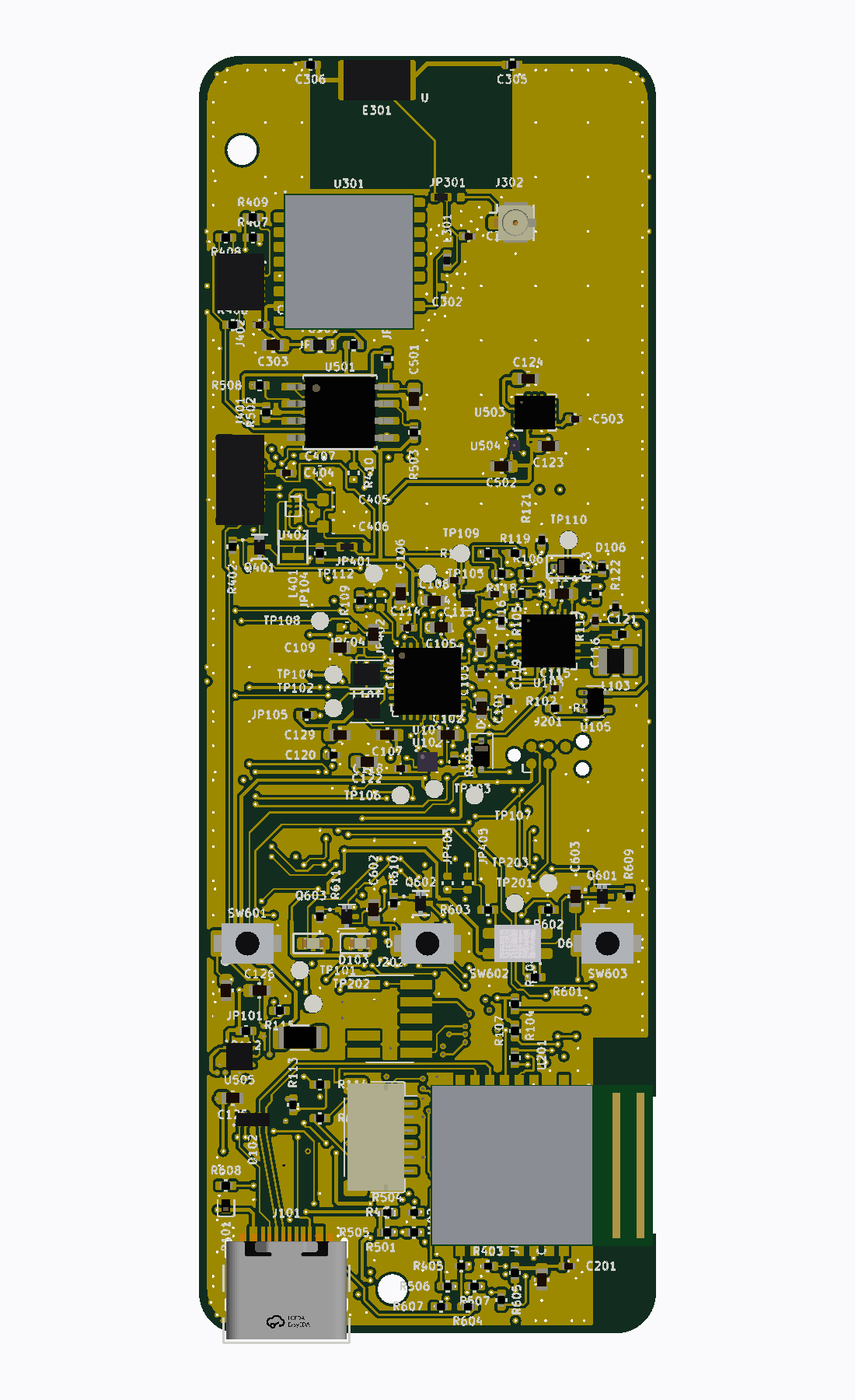
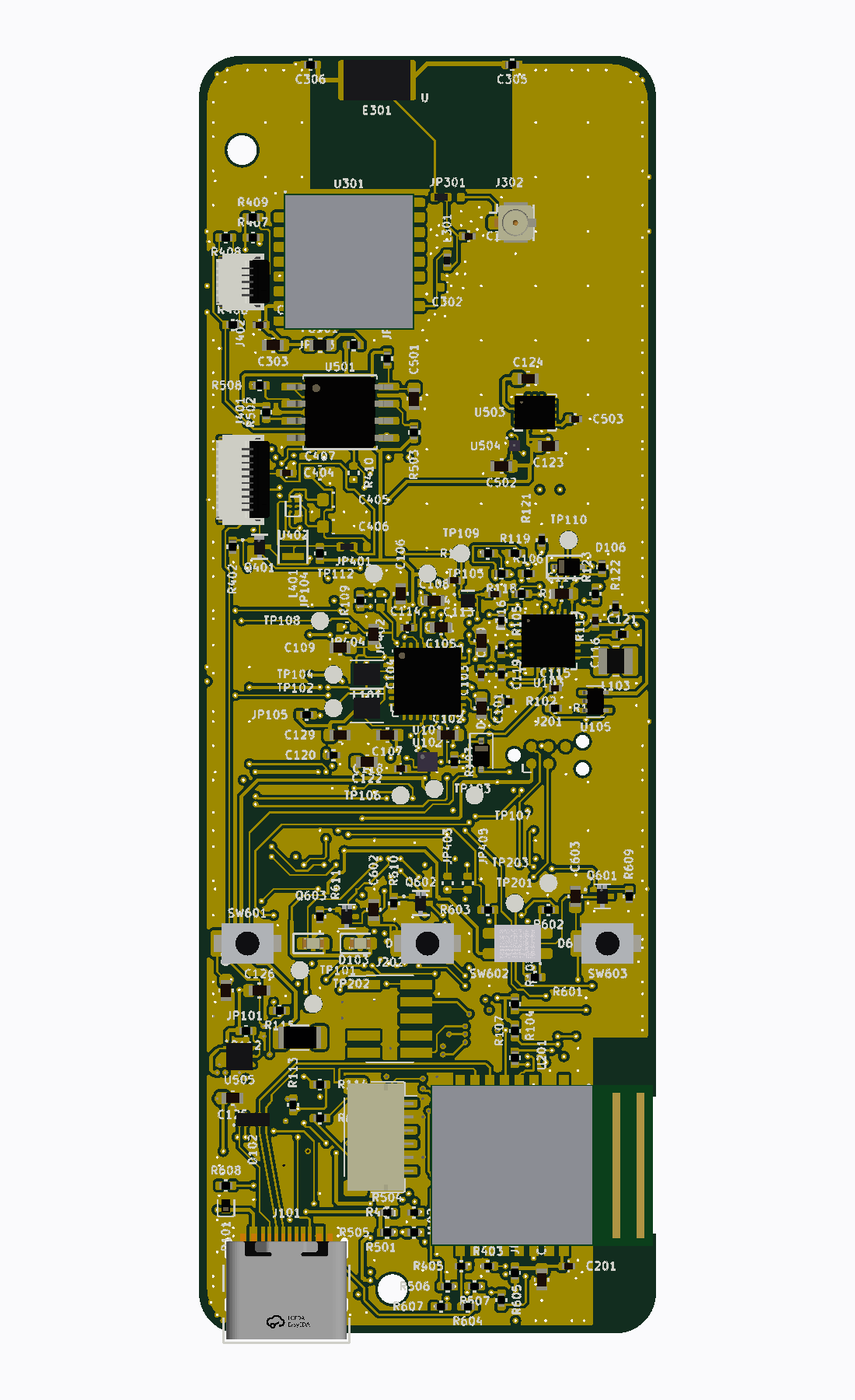
feat(hardware): Molex's own 3D models on the display connectors
J401, J402 and J403 were boxes drawn here. The owner fetched Molex's STEPs
of the 503480-1000, -0540 and -0440 (through TraceParts); they stay in
cad/3d/real/, out of git like every maker model, and reach the routed
board through aplicar_modelos.py.

Molex draws them Y up with the origin at circuit 1, so as they came the
connectors stood on their sides. The turn and the offset were measured on
a board holding the part alone: the nails and the contact feet told apart
by colour and set against their pads, and two test moves to see where the
offset takes the body. On the front it is -90 about X and 180 about Z; on
the back J403 takes -90 about X alone and the offset runs another way. The
feet sit centred on the signal pads and the nails on theirs within 0.02
mm, and the housing on the F.Fab. MODELO_GIRADO now takes a turn about all
three axes.

ME5 measures the feet of J401 and J402 again, and those of J403: the dry
run meets 35 measures, with the same 2 accepted deviations and none
violated, and the board check passes as it is.

Changed region(s): [[0.2473, 0.3111, 0.34, 0.3733], [0.2473, 0.1556, 0.34, 0.2489]]

diff --git a/hardware_gnssbike/cad/footprints.py b/hardware_gnssbike/cad/footprints.py
@@ -943,6 +943,21 @@ MODELO_GIRADO = {
     # right, over the pads. On the front at 270 degrees the offset maps
     # x -> +y and y -> +x, measured with test exports; none is needed.
     "HC-FPC-05-10-5RLTAG": (180, 0.0, 0.0),
+    # Molex's own STEPs of the Easy-On 503480 (via TraceParts, fetched by the
+    # owner on 2026-10-21) are drawn Y up with the origin at circuit 1: as
+    # they come, the connector stood on its side, 4 mm tall and 1 mm thick.
+    # An entry of six numbers turns about X, Y and Z and offsets in X, Y and
+    # Z. Measured on the exported GLB of a board holding the part alone: -90
+    # about X lays it on the board (body z 0.85..1.87, 1.02 mm tall), and
+    # then the fitting nails and the contact feet sit on the wrong sides
+    # until a 180 about Z puts the nails on their pads at the mouth and the
+    # feet on the signal row. The offsets, from two test moves (model x
+    # moves the body to -y on the board, model y to -x): J401's feet centred
+    # on the signal pads (29.57) and its nails on theirs (26.94 against
+    # 26.92), the housing on the F.Fab front face and its full length; the
+    # model runs 0.4 mm past the F.Fab at the back, where the feet are.
+    "Molex_503480-1000_1x10_P0.50mm": (-90, 0, 180, 2.25, 0.22, 0),
+    "Molex_503480-0540_1x05_P0.50mm": (-90, 0, 180, 1.0, 0.22, 0),
 }
 
 # The same model on the BACK face needs another turn AND another offset, and
@@ -963,7 +978,24 @@ MODELO_GIRADO = {
 # model of this table on the other face measures it again the same way.
 MODELO_GIRADO_VERSO = {
     "JST_ZH_S4B-ZR-SM4A-TF_1x04-1MP_P1.50mm_Horizontal": (180, -2.25, 1.86),
+    # J403, the Azumo light's 503480-0440 on the back (2026-10-21): on this
+    # face the 180 about Z of the front puts the nails and the feet on the
+    # wrong sides again, so it is -90 about X alone, and the test moves give
+    # model x to -y and model y to +x on the board. Measured: the body on
+    # the F.Fab (x 40.27, y 81.33..85.03) and 1.02 mm under the board, the
+    # feet centred on the signal pads (43.57), the nails on theirs (40.94
+    # against 40.92)
+    "Molex_503480-0440_1x04_P0.50mm": (-90, 0, 0, -0.75, -0.22, 0),
 }
+
+
+def _giro_desloca(v: tuple) -> tuple[tuple, tuple]:
+    """A MODELO_GIRADO entry as (rotate xyz, offset xyz): three numbers turn
+    about Z alone and offset in X and Y, six turn about X, Y and Z and
+    offset in X, Y and Z."""
+    if len(v) == 3:
+        return (0, 0, v[0]), (v[1], v[2], 0)
+    return tuple(v[:3]), tuple(v[3:])
 
 
 def modelo_no_verso(corpo: str) -> str:
@@ -977,21 +1009,21 @@ def modelo_no_verso(corpo: str) -> str:
     base = m.group(1).rsplit("/", 1)[-1].rsplit(".", 1)[0]
     if base not in MODELO_GIRADO_VERSO:
         return corpo
-    giro, ox, oy = MODELO_GIRADO_VERSO[base]
+    giro, desloca = _giro_desloca(MODELO_GIRADO_VERSO[base])
     inicio = m.start()
     trecho = corpo[inicio:]
-    trecho = _re.sub(r"\(offset\s*\(xyz [^)]*\)\s*\)", "(offset (xyz %g %g 0))" % (ox, oy), trecho, count=1)
-    trecho = _re.sub(r"\(rotate\s*\(xyz [^)]*\)\s*\)", "(rotate (xyz 0 0 %d))" % giro, trecho, count=1)
+    trecho = _re.sub(r"\(offset\s*\(xyz [^)]*\)\s*\)", "(offset (xyz %g %g %g))" % desloca, trecho, count=1)
+    trecho = _re.sub(r"\(rotate\s*\(xyz [^)]*\)\s*\)", "(rotate (xyz %g %g %g))" % giro, trecho, count=1)
     return corpo[:inicio] + trecho
 
 
 def linha_de_modelo(rel: str) -> str:
     base = rel.rsplit("/", 1)[-1].rsplit(".", 1)[0]
-    giro, ox, oy = MODELO_GIRADO.get(base, (0, 0.0, 0.0))
+    giro, desloca = _giro_desloca(MODELO_GIRADO.get(base, (0, 0.0, 0.0)))
     return (TAB + '(model "${KIPRJMOD}/' + rel + '"' + NL +
-            TAB * 2 + "(offset (xyz %g %g 0))" % (ox, oy) + NL +
+            TAB * 2 + "(offset (xyz %g %g %g))" % desloca + NL +
             TAB * 2 + "(scale (xyz 1 1 1))" + NL +
-            TAB * 2 + "(rotate (xyz 0 0 %d))" % giro + NL +
+            TAB * 2 + "(rotate (xyz %g %g %g))" % giro + NL +
             TAB + ")" + NL)
 
 

diff --git a/hardware_gnssbike/cad/dry_run_pcb.py b/hardware_gnssbike/cad/dry_run_pcb.py
@@ -695,8 +695,9 @@ def _ilhas_sob_o_corpo(ref: str, pecas: dict):
 
 # Os conectores cujos rabichos de solda a ME5 confere: os que tem modelo do
 # fabricante ou da biblioteca do KiCad no GLB e ilhas de sinal numa fileira.
-# J401 and J402 left on 2026-10-18 for the same reason (Molex 503480, boxes)
-RABICHOS_CONFERIDOS = ("J101", "J102", "J103")
+# J401 and J402 left on 2026-10-18, when the Molex 503480 was a box, and
+# came back with J403 on 2026-10-21, with Molex's own STEPs
+RABICHOS_CONFERIDOS = ("J101", "J102", "J103", "J401", "J402", "J403")
 
 # Models whose solder contacts have a colour of their own in the maker's
 # STEP, so that the contacts can be told from the nails' plate. Measured in

diff --git a/hardware_gnssbike/cad/aplicar_modelos.py b/hardware_gnssbike/cad/aplicar_modelos.py
@@ -123,7 +123,8 @@ def main() -> int:
             de = agora[0].rsplit("/", 1)[-1] if agora else "sem corpo"
             para = alvo[0].rsplit("/", 1)[-1] if alvo else "sem corpo"
             resumo.append(f"  {ref}: {de} -> {para}"
-                          + (f" (giro {alvo[3][2]:g}, desloca {alvo[1][0]:g}; {alvo[1][1]:g})" if alvo else ""))
+                          + (f" (giro {' '.join(f'{v:g}' for v in alvo[3])},"
+                             f" desloca {' '.join(f'{v:g}' for v in alvo[1])})" if alvo else ""))
         i = fim
     for a, b, novo in sorted(trocas, reverse=True):
         texto = texto[:a] + novo + texto[b:]

diff --git a/.claude/contexto/estado.md b/.claude/contexto/estado.md
@@ -19,6 +19,7 @@ Registro que saiu do [`CLAUDE.md`](../../CLAUDE.md) em 2026-10-16 (era a seção
 - **Feito em 2026-10-18: revisão do esquemático da placa nova antes da fábrica** (pedido do dono; no fim do dia ele reduziu o escopo a duas perguntas: o esquemático está certo para fabricar? alguma peça está em fim de vida?). Relatório em [`hardware_gnssbike/11-revisao-do-esquematico.md`](../../hardware_gnssbike/11-revisao-do-esquematico.md). Resultado: **não vai para a fábrica sem correções**. São 6 bloqueios (footprints do BMP585 e do LED RGB, pinagem do TLV7031, `JP301` que nunca liga a antena de chip, `J401` e `J402` com o lado de contato e a posição errados), a tela JDI LPM027M128C fora de venda, o buzzer Murata em *Last Time Buy* (substituto no mesmo land: Same Sky CPT-12123-81-SMT-TR) e 15 graves. O mapa de pads do ME54BS13 está certo (fecha `docs-k1`), e também a árvore de energia, os pinos do nRF54LM20A, o GNSS e a gravação pela SWD. O dono aprovou a lista e as decisões D1 a D4 no mesmo dia, e pediu os conectores das duas telas na placa. O material de trabalho (cartões, vereditos, o registro com 210 achados e a tabela de fornecimento com os códigos da LCSC propostos para os passivos) fica em `.claude/reviews/2026-10-18-esquematico/`, fora do git; `python -I tools/review/finding.py <pasta> <id>` imprime um achado. A etapa 1 passou de 100 agentes (daí a regra dos 15) e o fechamento gastou 15, contando 6 de rodadas paradas.
 - **Feito em 2026-10-18 e 2026-10-19 (hardware, nada fabricado):** as correções da revisão no gerador (commits do firmware `8516aa0` e `d284af7`, e o do hardware); a placa aceita a JDI ou a Sharp no mesmo `J401` (Molex 503480 de contato dos dois lados, com a fita entrando pelo lado dos pregos, achado da segunda conferência cega), o boost de 5 V só com `TELA=sharp`; códigos da LCSC em toda peça montada; a caixa revista parte por parte em [`hardware_gnssbike/12`](../../hardware_gnssbike/12-revisao-da-caixa.md) (64 × 106 × 18,2, bolsos dos módulos pela ficha, teclas com 0,15 de folga, janela do sensor vedada; **três decisões do dono**: USB-C, furos do fundo e junta da partição). O roteador ganhou saída de terra dobrada e conferida na geometria, vias de terra para fora dos CIs densos, o keep-out da antena aceitando a rede dela e a ordem com os trilhos primeiro; o arquivo deixou de repetir UUIDs (o DRC culpava as peças erradas). **Roteamento fechado na noite de 2026-10-19:** DRC completo com 0 desconectados, 0 erros e nenhuma trilha ou via solta (de manhã eram 48 desconectados). Pedido do dono no meio do caminho: começar da melhor placa roteada e fechar uma trilha de cada vez, mudando a regra até 100 %, sem rotear tudo de novo. O `route.py` faz a base (redes curtas e *rip-up* com trocas de lado: 26 → 11 falhas) e o `acabar.py`, novo, fecha o resto; três ligações com guia e quatro trechos à mão (I²C do MAX17262, `VSYS` e `VBUS` do lado direito do nPM1300) estão no próprio `acabar.py`, presos às coordenadas desta placa. Mudaram com o roteamento: o `ALRT` do MAX17262 ao GND (sai o `R110`), o par USB trocado de canal no `D102`, o `C305` e o `C306` na borda com os valores da figura 8-1, as larguras pela corrente (IPC-2221), as 9 vias térmicas do nPM1300, o corredor de sinais na borda esquerda, o ADP5091 afastado e o `RT101` atrás do `U103`. O dry run cumpre 24 regras e viola as 2 de antes (`RF9` e `AL1`). Commits `daebe2f` (esquemático) e `ffb5d7a` (roteamento), com push e merge na `main` (`308ea47`). Depois, a revisão dos quatro pontos de layout, autorizada pelo dono: o `USB_DM` dava a volta pela borda (67,6 contra 32,4 mm) e foi refeito colado ao `USB_DP` (20,69 mm cada, 93,6 Ω); a pilha é a JLCPCB JLC04081H-3313, com impedância controlada, e as linhas de RF passaram de 0,196 mm (44 Ω) a 0,15 mm (51,1 Ω, `impedancia.py`); a `FB301` virou BLM18KG221SN1D (AL4 em 169 mΩ); a janela de máscara do u.FL ganhou área proibida de cobre; 94 vias ficam em ilha de SMD (regra `FA1`) e o pedido pede POFV; o dry run mede as 32 regras, sem violação, com desvios aceitos na `RF9` (tela e fita da luz) e no `C210`, a fechar na bancada. Commits `ea41bbc` e `ca09869`. Os arquivos para cotar na JLCPCB saem do `make_fab.py` (Gerber, furação, BOM e CPL por tela, em `hardware_gnssbike/fabricacao/`, fora do git); nada foi pedido. A compra na Mouser sai do `mouser.py` (chave da API do dono em `.claude/local/mouser_api_key`): US$ 135 na Mouser para duas placas JDI (o projeto "GNSS BIKE" que o dono montou lá, com mais sobra, soma US$ 202), e planilhas `.xlsx` para a LCSC (dez linhas: o que a Mouser não vende ou não tem em estoque) e para a DigiKey (a MX25R6435F, o `U201` e as células solares). O ADP5091ACPZ-2-R7 e o MAX17262REWL+T ficam na Mouser por decisão do dono em 2026-10-20, embora a ferramenta de BOM dela os tenha marcado como obsoletos; a ADI os dá em produção e a DigiKey como ativos. Os substitutos da Mouser para o LED, as teclas, a flash e o 18 MΩ assentam nas ilhas mas mudam alguma coisa (firmware, força da tecla, consumo, valor do MPPT), e o dono ficou com as peças do projeto em 2026-10-19 ([19](../../docs/19-lista-de-compras.md#substitutos-que-a-mouser-tem-e-que-mudam-alguma-coisa)).
 - **Feito em 2026-10-20 (documentação, nada fabricado):** o 3D da placa e as vistas da caixa mostram a montagem da JDI, sem as peças que ela não leva (o conector SWD `J202` aparecia de pé); o manual de montagem e o chicote solar passaram a ler a caixa (`make_caixa.Caixa`) e a placa em vez de números digitados, e saíram da caixa de 62 × 106 × 17, dos conectores de 2026-09-26 e do colhedor antigo; o README mostra a placa roteada de frente, verso e ângulo, com os dois conectores da tela na borda esquerda (`J402`, luz da JDI, e `J401`, sinal das duas), e os números da placa de hoje (2.683 segmentos e 769 vias depois do casamento do par USB).
+- **Feito em 2026-10-21 (3D da placa, nada fabricado):** o `aplicar_modelos.py` troca o modelo 3D na placa roteada sem gerar a placa de novo; os indutores dos conversores e o `U402`, que estavam sem corpo, ganharam caixa; os três Molex da tela (`J401`, `J402`, `J403`) têm o STEP da Molex que o dono baixou, com giro e deslocamento medidos (`footprints.MODELO_GIRADO`, agora com giro nos três eixos). O dry run conta 35 medidas cumpridas, 2 desvios aceitos, nenhuma violada. Ainda são caixa 21 peças; as que mais destoam (teclas, LED RGB, SOT-523, buzzer) estão em `hardware_gnssbike/cad/3d/LEIAME.md`, com de onde baixar. O dono comprou a tela JDI (a C, com as duas fitas).
 - **Em aberto da fase 6:** o teste com cabo (o `$QRY` foi respondido em 2026-09-23).
 - **Ordem proposta do que falta:**
 

diff --git a/CLAUDE.md b/CLAUDE.md
@@ -72,7 +72,7 @@ O dono do projeto é um desenvolvedor brasileiro de eletrônica embarcada que qu
 Estado registrado até 2026-10-20. O registro completo, as decisões com data e a ordem do que falta estão em [`.claude/contexto/estado.md`](.claude/contexto/estado.md): atualize lá quando o estado mudar, e aqui quando o resumo mudar.
 
 - **Port:** compila no NCS v3.3.0 e passa nos testes de host; **nunca rodou em placa nem no DK**. Matriz em [`docs/10-status-do-port.md`](docs/10-status-do-port.md).
-- **Placa nova:** nRF54LM20A, gerada no KiCad pelos scripts de `hardware_gnssbike/cad/`, com dry run da placa e da caixa; **nada fabricado, montado nem impresso**. A revisão do esquemático de 2026-10-18 ([11](hardware_gnssbike/11-revisao-do-esquematico.md)) achou 6 bloqueios, a tela e o buzzer fora de venda ou em fim de vida e 15 graves; as correções entraram no gerador em 2026-10-18 e 2026-10-19, a placa aceita a JDI ou a Sharp, e a caixa foi revista parte por parte ([12](hardware_gnssbike/12-revisao-da-caixa.md)). O roteamento fechou em 2026-10-19 (DRC com 0 desconectados e 0 erros: o `route.py` faz a base e o `acabar.py` fecha uma ligação de cada vez, com o cobre à mão preso a esta placa), e os capacitores de sintonia da antena de chip foram para a borda como na ficha da Unictron. Na revisão do mesmo dia, o par USB ficou casado, as linhas saem da pilha JLCPCB JLC04081H-3313 (`impedancia.py`, pedido com impedância controlada e vias em ilha com POFV) e o dry run mede as 32 regras sem violar nenhuma (`RF9` e `C210` com desvio aceito e teste de bancada). A placa ainda não vai para a fábrica: faltam as escolhas e confirmações do README da placa; os arquivos da JLCPCB (`make_fab.py`) e as listas de compra da Mouser, da LCSC e da DigiKey (`mouser.py`) já saem por script.
+- **Placa nova:** nRF54LM20A, gerada no KiCad pelos scripts de `hardware_gnssbike/cad/`, com dry run da placa e da caixa; **nada fabricado, montado nem impresso**. A revisão do esquemático de 2026-10-18 ([11](hardware_gnssbike/11-revisao-do-esquematico.md)) achou 6 bloqueios, a tela e o buzzer fora de venda ou em fim de vida e 15 graves; as correções entraram no gerador em 2026-10-18 e 2026-10-19, a placa aceita a JDI ou a Sharp, e a caixa foi revista parte por parte ([12](hardware_gnssbike/12-revisao-da-caixa.md)). O roteamento fechou em 2026-10-19 (DRC com 0 desconectados e 0 erros: o `route.py` faz a base e o `acabar.py` fecha uma ligação de cada vez, com o cobre à mão preso a esta placa), e os capacitores de sintonia da antena de chip foram para a borda como na ficha da Unictron. Na revisão do mesmo dia, o par USB ficou casado, as linhas saem da pilha JLCPCB JLC04081H-3313 (`impedancia.py`, pedido com impedância controlada e vias em ilha com POFV) e o dry run cumpre 35 medidas sem violar nenhuma (`RF9` e `C210` com desvio aceito e teste de bancada). Desde 2026-10-21 os conectores da tela têm o STEP da Molex no 3D, aplicado à placa roteada pelo `aplicar_modelos.py`. A placa ainda não vai para a fábrica: faltam as escolhas e confirmações do README da placa; os arquivos da JLCPCB (`make_fab.py`) e as listas de compra da Mouser, da LCSC e da DigiKey (`mouser.py`) já saem por script.
 - **Decisões do dono que pesam em todo trabalho:** ANT+ **e** BLE, pelo `sdk-ant` v2.1.1 sobre o NCS v3.3.0 (build com `ANT=1`); GNSS u-blox **MAX-F10S** a 3,0 V no trilho do MCU, sem modo econômico (o F10 não tem `CFG-PM`); tela **JDI LPM027M128C**, peça única com luz integrada (2026-09-23), num driver que também atende a LPM027M128B e a Sharp LS027B7DH01; memória soldada no lugar do cartão.
 - **Em aberto:** as escolhas e confirmações da placa antes da fábrica (módulo e mapa de pads, domínio de tensão do nPM1300, SWD, pinagem da bateria) e a compra das peças; as decisões da caixa (vedação do USB-C, dos furos do fundo e da linha de partição, em [12](hardware_gnssbike/12-revisao-da-caixa.md#resumo)); aprovação dos componentes da placa nova ([13](docs/13-placa-nova.md), [14](docs/14-hardware-placa-nova.md), [15](docs/15-avaliacao-componentes.md), [19](docs/19-lista-de-compras.md)), hardware de teste, formatos no SD e o teste com cabo da fase 6.
 

diff --git a/CHANGELOG.md b/CHANGELOG.md
@@ -8,6 +8,7 @@ Revisão completa de 2026-09-18: análise do legacy e do port, migração para o
 
 ### Adicionado
 
+- **O modelo 3D real dos três conectores da tela** (`J401`, `J402` e `J403`): os STEP da Molex 503480-1000, -0540 e -0440, baixados pelo dono pela TraceParts, ficam em `cad/3d/real/`, fora do git, e entram na placa roteada pelo `aplicar_modelos.py`. A Molex os desenha com o Y para cima e a origem no circuito 1. O giro e o deslocamento foram medidos numa placa só com a peça: os pés de solda centrados nas ilhas de sinal, os pregos nas ilhas deles e o corpo no `F.Fab`. Na frente são −90° em X e 180° em Z; no verso, o `J403` leva só −90° em X e o deslocamento em outro sentido. A `footprints.MODELO_GIRADO` passou a aceitar giro nos três eixos. A `ME5` do dry run voltou a medir os pés de solda do `J401` e do `J402` e passou a medir os do `J403`: o dry run conta 35 medidas cumpridas, os mesmos 2 desvios, nenhuma violada.
 - **`hardware_gnssbike/cad/aplicar_modelos.py`**: troca o modelo 3D das peças na placa roteada sem gerar a placa de novo. Ele calcula o bloco `(model ...)` que o `make_pcb.py` escreveria e reescreve só esse bloco, no formato do KiCad, para os STEP de fabricante que forem chegando a `cad/3d/real/`. Com ele, os indutores dos conversores (`L101`, `L102` e `L401`) e o boost da Sharp (`U402`), que apareciam no 3D só com as ilhas, ganharam corpo com a altura registrada em `footprints.ALTURA`; o dry run mede agora 139 corpos, sem violação. As imagens mostram o 0 Ω do `JP301` e do `JP401` no par de ilhas que a montagem da JDI usa. O `cad/3d/LEIAME.md` lista as 24 peças que ainda são caixa desenhada, as que mais destoam da peça real (os Molex da tela, as teclas, o LED RGB, os SOT-523 e o buzzer) e de onde baixar o STEP de cada uma: a Molex, a LCSC/EasyEDA e a u-blox recusam download automático.
 - **O pedido das peças na Mouser** (`hardware_gnssbike/cad/mouser.py`, com a tabela de códigos de fabricante em `hardware_gnssbike/cad/mpn.py`): da BOM de cada tela, pela API de busca da Mouser, sai o CSV para a ferramenta de BOM dela, com código, estoque, prazo e preço na quantidade; para duas placas, 56 linhas e US$ 134,83 na Mouser com a JDI, e 58 linhas e US$ 139,98 com a Sharp, uma por peça e cada uma com o ciclo de vida que a API dá, e o script avisa das que estão saindo de linha. Cinco peças trocam de fabricante só na Mouser, com a mesma especificação (o NTC é o Murata NCU15XH103F60RC, porque o NCP15XH103F03RC está em fim de vida), e o indutor `L103`, que ela não vende, vira um Murata LQH2HPZ220MJRL que assenta no mesmo land. O que ela não vende ou não tem em estoque vai para uma planilha `.xlsx` para a ferramenta de BOM da LCSC (dez linhas, todas com estoque lá), e a MX25R6435F, o módulo `U201`, as células solares e o módulo Azumo vão para outra, para o BOM Manager da DigiKey; o número do cliente leva "GNSS Bike" e os designadores. O ADP5091ACPZ-2-R7 e o MAX17262REWL+T, que a ferramenta de BOM da Mouser marcou como obsoletos e que a ADI dá em produção e a DigiKey como ativos, ficam na Mouser por decisão do dono. Os substitutos que a Mouser tem para o LED, as teclas, a flash e o 18 MΩ assentam nas ilhas mas mudam alguma coisa, e o dono ficou com as peças do projeto ([`docs/19`](docs/19-lista-de-compras.md#compra-na-mouser)). A chave da API fica fora do git.
 - **`hardware_gnssbike/cad/make_fab.py`**: os arquivos para cotar e fabricar na JLCPCB, da placa roteada: o Gerber e a furação num zip, nas opções do guia deles para o KiCad, e uma BOM e um CPL por tela (JDI, ou Sharp com a luz do Azumo), com o `JP401` e o `JP301` no par de ilhas que cada variante pede, e um LEIA-ME com as opções do pedido. Saem em `hardware_gnssbike/fabricacao/`, fora do git; a BOM e o CPL conferem um com o outro (138 peças na JDI, 146 na Sharp), e os 769 furos de 0,25 mm batem com as vias da placa.

diff --git a/hardware_gnssbike/cad/3d/LEIAME.md b/hardware_gnssbike/cad/3d/LEIAME.md
@@ -2,8 +2,8 @@
 
 Das 168 footprints da placa, contadas em 2026-10-21:
 - **121** usam o modelo da própria biblioteca do KiCad;
-- **3** usam o STEP do fabricante que está em `real/`: o USB-C `J101`, o conector da bateria `J102` e o do painel `J103`;
-- **24** recebem uma **caixa desenhada por este projeto**, com a medida do encapsulamento, porque nem o KiCad nem `real/` têm modelo para elas;
+- **6** usam o STEP do fabricante que está em `real/`: o USB-C `J101`, o conector da bateria `J102`, o do painel `J103` e os três Molex 503480 da tela, `J401`, `J402` e `J403` (STEP da Molex, pela TraceParts, baixados pelo dono em 2026-10-21);
+- **21** recebem uma **caixa desenhada por este projeto**, com a medida do encapsulamento, porque nem o KiCad nem `real/` têm modelo para elas;
 - **20** não têm corpo, e isso está certo: os furos, os pontos de teste, as ilhas do Tag-Connect e os dois jumpers de três ilhas (`JP301` e `JP401`). O 0 Ω dos jumpers, só o `make_3d.py` desenha, no par de ilhas da montagem.
 
 > [!NOTE]
@@ -25,7 +25,13 @@ Das 168 footprints da placa, contadas em 2026-10-21:
    numa exportação de teste. Escreva em `footprints.MODELO_GIRADO`, ou em
    `MODELO_GIRADO_VERSO` para peça no verso, e rode o `aplicar_modelos.py` de
    novo. Meça, não calcule: o STEP de fabricante pode vir girado 180° ou não
-   ([armadilhas](../../../.claude/contexto/armadilhas-hardware.md)).
+   ([armadilhas](../../../.claude/contexto/armadilhas-hardware.md)). Uma
+   entrada de três números gira só em Z; uma de seis gira em X, Y e Z e
+   desloca em X, Y e Z. É o caso dos Molex 503480, que a Molex desenha com o
+   Y para cima e a origem no circuito 1. Eles foram medidos numa placa só com
+   a peça: os pregos e os pés de solda, separados pela cor, contra as ilhas
+   deles, e dois deslocamentos de prova para saber para onde o corpo anda. No
+   verso, o giro e o sentido do deslocamento mudam, e se mede de novo.
 4. Rode `python ../dry_run_pcb.py`, cujas regras `ME4` a `ME6` medem o corpo
    contra as ilhas e o `F.Fab`, e depois `python ../make_3d.py`.
 
@@ -43,15 +49,12 @@ do KiCad.
 > **gerador**, em [`../footprints.py`](../footprints.py), com a altura de
 > cada caixa e a origem dela (`ALTURA` e `PACOTE`).
 
-## As 24 caixas, e o que procurar
+## As 21 caixas, e o que procurar
 
 O nome do footprint é o nome do arquivo a salvar em `real/`.
 
 | Footprint | Peças | Peça a procurar | A caixa representa bem? |
 |---|---|---|---|
-| `Molex_503480-1000_1x10_P0.50mm` | `J401` | Molex 503480-1000 (LCSC C127355) | não: o conector tem atuador e contatos |
-| `Molex_503480-0540_1x05_P0.50mm` | `J402` | Molex 503480-0540 (C5527934) | não |
-| `Molex_503480-0440_1x04_P0.50mm` | `J403` | Molex 503480-0440 (C3170007) | não |
 | `SW_TS-1088R_3.9x3mm` | `SW601` a `SW603` | XunPu TS-1088R-02026 (C455280) | não: falta o êmbolo |
 | `LED_RGB_3528_3.5x2.8mm` | `D601` | TUOZHAN S4-3528RGBTA-A (C2827321) | não: falta a lente |
 | `SOT-523` | `Q401`, `Q601` a `Q603` | Diodes DMG1012T-7 (C20512) | não: faltam as pernas |
@@ -73,8 +76,9 @@ mostram a da JDI.
 
 ## Prioridade, se for baixar
 
-Valem mais os três Molex da tela, as teclas, o LED RGB, os MOSFETs em SOT-523
-e o buzzer: neles a caixa fica longe da peça de verdade. Os CI, os módulos, a
+Valem mais as teclas, o LED RGB, os MOSFETs em SOT-523 e o buzzer: neles a
+caixa fica longe da peça de verdade. Os três Molex da tela já têm o STEP do
+fabricante. Os CI, os módulos, a
 antena e os indutores são blocos também na vida real, e a caixa com a medida
 da ficha já mostra o que importa: o contorno e a altura que a tampa tem de
 acomodar.

diff --git a/hardware_gnssbike/cad/README.md b/hardware_gnssbike/cad/README.md
@@ -283,7 +283,8 @@ inteiros.
 
 **Medido em 2026-10-19**, na placa do repositório: o DRC completo com as
 malhas preenchidas dá **0 itens desconectados, 0 erros e nenhuma trilha ou
-via solta**. O dry run mede as 32 regras e não viola nenhuma; duas têm
+via solta**. O dry run cumpre 35 medidas e não viola nenhuma (eram 32 até a
+`ME5` voltar a medir os conectores da tela, em 2026-10-21); duas regras têm
 desvio aceito pelo dono, com conferência de bancada
 ([09](../09-dry-run-da-pcb.md#resultado-de-2026-10-19-com-o-roteamento-fechado)).
 Os trilhos de carga correm com 0,25 mm nas faces de fora e estreitam a 0,15
@@ -411,9 +412,9 @@ borda; nada dentro das áreas de antena; a placa cabe na caixa; os três planos
 de terra existem.
 
 **Regras das fichas** ([09](../09-dry-run-da-pcb.md#resultado-de-2026-10-19-com-o-roteamento-fechado))
-— na placa roteada de 2026-10-19, **32 cumpridas, 2 com desvio aceito pelo
-dono** (o `RF9` e o `C210` da `AL1`), **nenhuma violada e nenhuma sem
-medida**. Antes, as duas que falhavam na placa de 55 × 97 caíram quando a
+— na placa roteada, **35 cumpridas desde 2026-10-21** (32 em 2026-10-19),
+**2 com desvio aceito pelo dono** (o `RF9` e o `C210` da `AL1`), **nenhuma
+violada e nenhuma sem medida**. Antes, as duas que falhavam na placa de 55 × 97 caíram quando a
 placa passou a ser dimensionada pelo circuito; o `RF9` voltou em 2026-10-18,
 quando o contorno da tela passou a servir às três (JDI, Sharp e Azumo) e a
 sombra dela chegou a 13,4 mm do módulo:

diff --git a/hardware_gnssbike/README.md b/hardware_gnssbike/README.md
@@ -9,7 +9,7 @@
 ![Caixa](https://img.shields.io/badge/caixa-64%20%C3%97%20106%20%C3%97%2018%2C2%20mm-0082FC)
 ![MCU](https://img.shields.io/badge/MCU-nRF54LM20A-00A9CE)
 ![DRC](https://img.shields.io/badge/DRC-0%20erros-2E7D32)
-![Regras](https://img.shields.io/badge/regras%20de%20ficha-32%20cumpridas%2C%200%20violadas-2E7D32)
+![Regras](https://img.shields.io/badge/regras%20de%20ficha-35%20cumpridas%2C%200%20violadas-2E7D32)
 ![Caixa medida](https://img.shields.io/badge/dry%20run%20da%20caixa-12%20cumpridas%2C%201%20sem%20medida-2E7D32)
 ![Montada](https://img.shields.io/badge/montada-n%C3%A3o-C62828)
 
@@ -32,7 +32,7 @@ componente.
 > arquivo de CAD — 166 peças, 118 redes, 2.683 segmentos, 769 vias, **todas
 > as ligações roteadas** (0 itens desconectados e 0 erros no DRC completo,
 > [CAD](cad/README.md#o-acabamento-uma-ligação-de-cada-vez), 2026-10-19) e
-> as 32 regras das fichas medidas, nenhuma violada e 2 com desvio aceito
+> as regras das fichas medidas, 35 cumpridas, nenhuma violada e 2 com desvio aceito
 > ([09](09-dry-run-da-pcb.md))
 > —, e a caixa existe como proposta medida por um dry run próprio (12
 > regras cumpridas, 0 violadas e 1 ainda sem medida, [caixa](caixa/README.md));

diff --git a/hardware_gnssbike/09-dry-run-da-pcb.md b/hardware_gnssbike/09-dry-run-da-pcb.md
@@ -187,6 +187,13 @@ pelo dono, 0 violadas, 0 sem medida**. O DRC completo do KiCad, com as
 malhas preenchidas e a ponte mínima de máscara da JLCPCB (0,1 mm), dá 0 itens
 desconectados e 0 erros.
 
+Em 2026-10-21 os três conectores da tela ganharam o STEP da Molex. A `ME5`
+voltou a medir os pés de solda do `J401` e do `J402` e passou a medir os do
+`J403`, e os três ficam do lado das ilhas de sinal. Com isso o dry run conta
+**35 medidas cumpridas**, com os mesmos 2 desvios, 0 violadas e 0 sem medida.
+A `ME6` mede 139 corpos, contando os indutores dos conversores e o `U402`,
+que estavam sem corpo.
+
 | Id | O que mediu |
 |---|---|
 | RF2 | a ponta de RF do módulo encosta na borda direita (0,0 mm), com o corpo para dentro |

diff --git a/README.md b/README.md
@@ -78,7 +78,7 @@ A placa existe como **arquivo de CAD**, gerado por programa e **roteado por
 inteiro** em 2026-10-19: 138 componentes na montagem da JDI (146 na da
 Sharp), 118 redes, 2.683 trechos de trilha e 769 vias. O DRC completo dá 0
 itens desconectados e 0 erros, e as regras que as fichas dos componentes e a
-IPC-2221B impõem, medidas uma a uma, dão 32 cumpridas, 2 com desvio aceito
+IPC-2221B impõem, medidas uma a uma, dão 35 cumpridas, 2 com desvio aceito
 pelo dono e conferência de bancada, e nenhuma violada
 ([dry run de 2026-10-19](hardware_gnssbike/09-dry-run-da-pcb.md#resultado-de-2026-10-19-com-o-roteamento-fechado)).
 Os arquivos de fábrica da JLCPCB e as listas de compra da Mouser, da LCSC e
